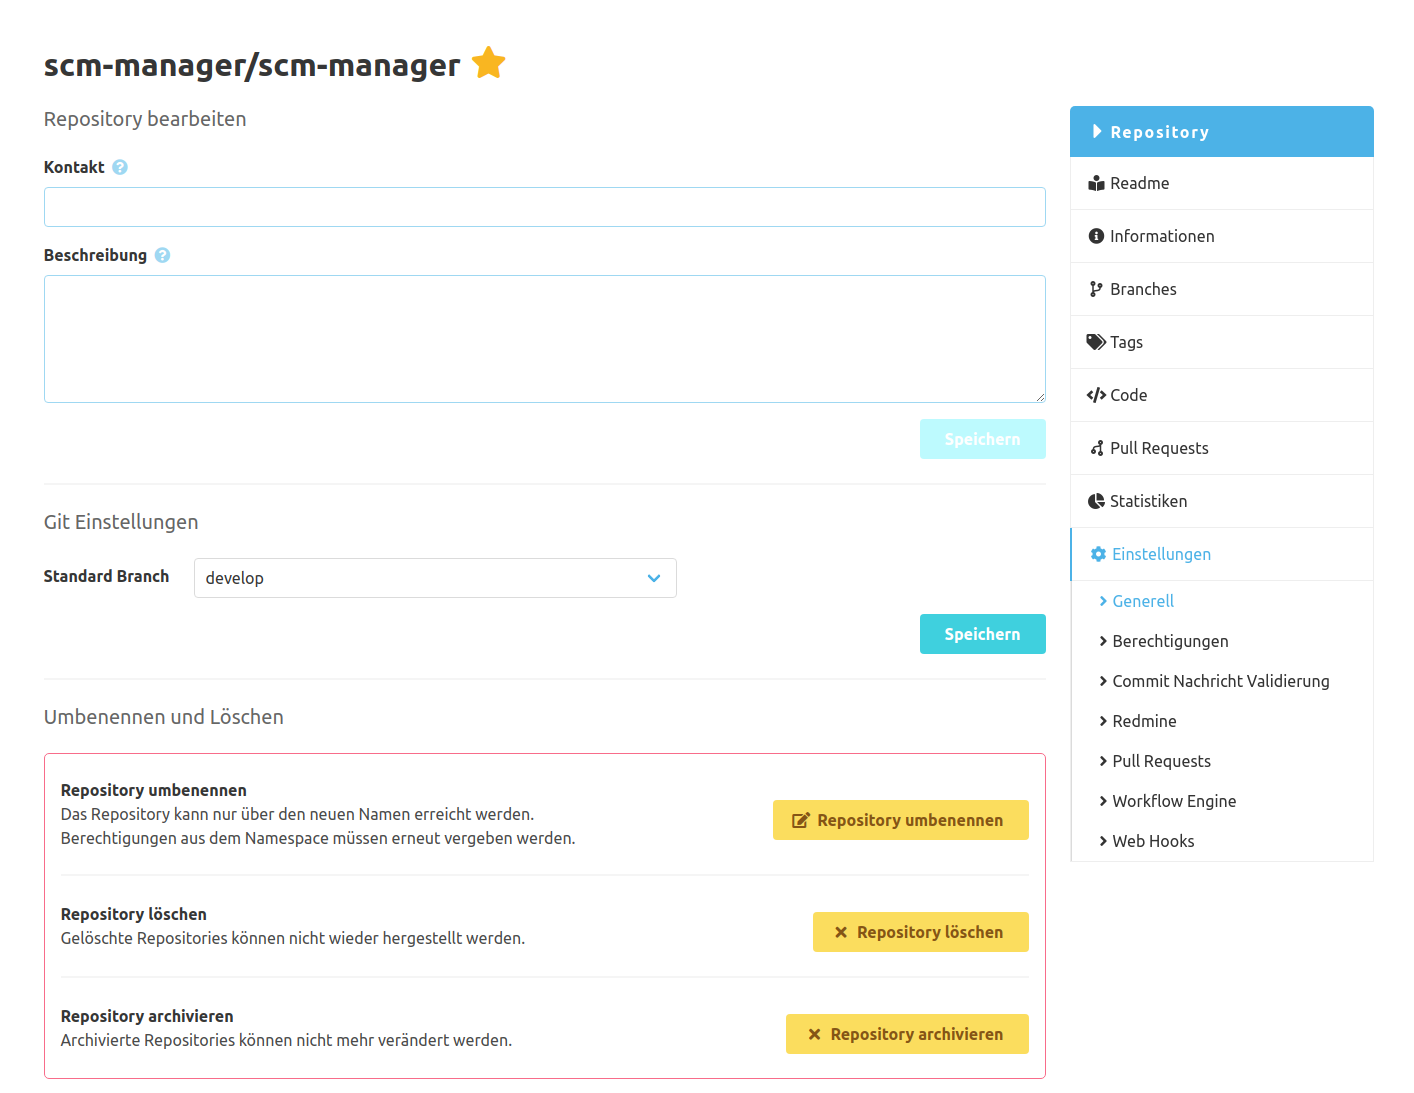
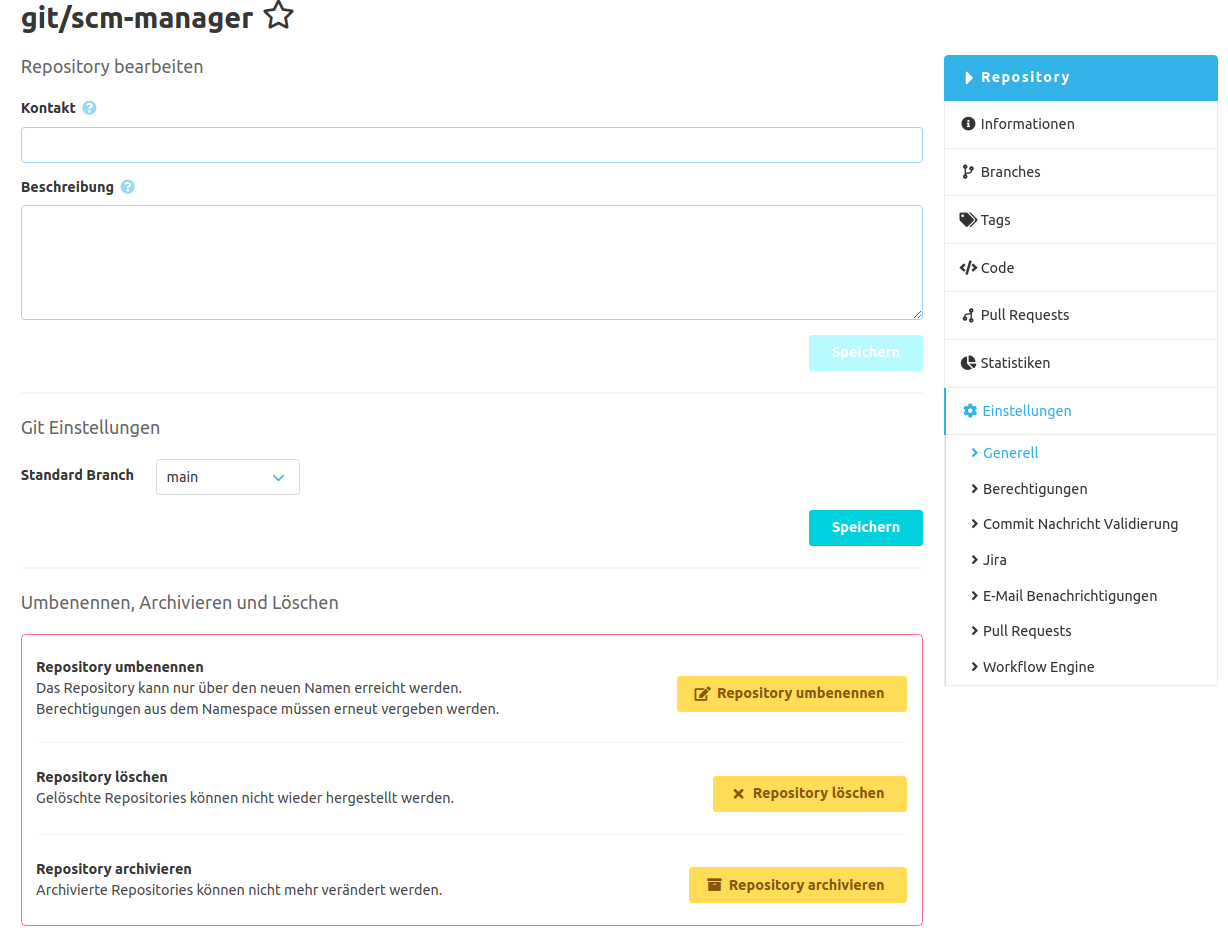
improve UI/UX

diff --git a/scm-ui/ui-webapp/src/repos/containers/RepositoryRoot.tsx b/scm-ui/ui-webapp/src/repos/containers/RepositoryRoot.tsx
@@ -29,7 +29,9 @@ import { binder, ExtensionPoint } from "@scm-manager/ui-extensions";
 import { Changeset, Repository } from "@scm-manager/ui-types";
 import {
   CustomQueryFlexWrappedColumns,
-  ErrorPage, Icon,
+  ErrorPage,
+  FileControlFactory,
+  JumpToFileButton,
   Loading,
   NavLink,
   Page,
@@ -37,7 +39,9 @@ import {
   SecondaryNavigation,
   SecondaryNavigationColumn,
   StateMenuContextProvider,
-  SubNavigation
+  SubNavigation,
+  Tooltip,
+  urls,
 } from "@scm-manager/ui-components";
 import { fetchRepoByName, getFetchRepoFailure, getRepository, isFetchRepoPending } from "../modules/repos";
 import RepositoryDetails from "../components/RepositoryDetails";
@@ -53,10 +57,8 @@ import { getLinks, getRepositoriesLink } from "../../modules/indexResource";
 import CodeOverview from "../codeSection/containers/CodeOverview";
 import ChangesetView from "./ChangesetView";
 import SourceExtensions from "../sources/containers/SourceExtensions";
-import { FileControlFactory, JumpToFileButton } from "@scm-manager/ui-components";
 import TagsOverview from "../tags/container/TagsOverview";
 import TagRoot from "../tags/container/TagRoot";
-import { urls } from "@scm-manager/ui-components";
 import styled from "styled-components";
 
 type Props = RouteComponentProps &
@@ -73,13 +75,13 @@ type Props = RouteComponentProps &
     fetchRepoByName: (link: string, namespace: string, name: string) => void;
   };
 
-const Smaller = styled.span`
-  font-size: 1rem;
-  color: gray;
-`;
-
-const Archived = styled.span`
-  color: gray;
+const ArchiveTag = styled.span`
+  margin-left: 0.2rem;
+  background-color: #9a9a9a;
+  padding: 0.4rem;
+  border-radius: 5px;
+  color: white;
+  font-weight: bold;
 `;
 
 class RepositoryRoot extends React.Component<Props> {
@@ -151,7 +153,7 @@ class RepositoryRoot extends React.Component<Props> {
     const extensionProps = {
       repository,
       url,
-      indexLinks
+      indexLinks,
     };
 
     const redirectUrlFactory = binder.getExtension("repository.redirect", this.props);
@@ -162,16 +164,17 @@ class RepositoryRoot extends React.Component<Props> {
       redirectedUrl = url + "/info";
     }
 
-    const fileControlFactoryFactory: (changeset: Changeset) => FileControlFactory = changeset => file => {
+    const fileControlFactoryFactory: (changeset: Changeset) => FileControlFactory = (changeset) => (file) => {
       const baseUrl = `${url}/code/sources`;
       const sourceLink = file.newPath && {
         url: `${baseUrl}/${changeset.id}/${file.newPath}/`,
-        label: t("diff.jumpToSource")
+        label: t("diff.jumpToSource"),
       };
-      const targetLink = file.oldPath && changeset._embedded?.parents?.length === 1 && {
-        url: `${baseUrl}/${changeset._embedded.parents[0].id}/${file.oldPath}`,
-        label: t("diff.jumpToTarget")
-      };
+      const targetLink = file.oldPath &&
+        changeset._embedded?.parents?.length === 1 && {
+          url: `${baseUrl}/${changeset._embedded.parents[0].id}/${file.oldPath}`,
+          label: t("diff.jumpToTarget"),
+        };
 
       const links = [];
       switch (file.type) {
@@ -197,33 +200,31 @@ class RepositoryRoot extends React.Component<Props> {
     };
 
     const archivedFlag = repository.archived && (
-      <>
-        {" "}
-        <Icon name={"archive fa-2x"} /> <Smaller>{t("repository.archived")}</Smaller>
-      </>
+      <Tooltip message={t("archive.tooltip")}>
+        <ArchiveTag className="is-size-6">{t("repository.archived")}</ArchiveTag>
+      </Tooltip>
     );
 
-    const namespaceLinkContent = repository.archived ?
-      <Archived>{repository.namespace}</Archived> : repository.namespace;
-
-    let titleComponent = (
+    const titleComponent = (
       <>
         <Link to={`/repos/${repository.namespace}/`} className={"has-text-dark"}>
-          {namespaceLinkContent}
+          {repository.namespace}
         </Link>
         /{repository.name}
       </>
     );
-    if (repository.archived) {
-      titleComponent = <Archived>{titleComponent}</Archived>;
-    }
 
     return (
       <StateMenuContextProvider>
         <Page
           title={titleComponent}
           documentTitle={`${repository.namespace}/${repository.name}`}
-          afterTitle={<><ExtensionPoint name={"repository.afterTitle"} props={{ repository }} />{archivedFlag}</>}
+          afterTitle={
+            <>
+              <ExtensionPoint name={"repository.afterTitle"} props={{ repository }} />
+              {archivedFlag}
+            </>
+          }
         >
           <CustomQueryFlexWrappedColumns>
             <PrimaryContentColumn>
@@ -359,7 +360,7 @@ const mapStateToProps = (state: any, ownProps: Props) => {
     loading,
     error,
     repoLink,
-    indexLinks
+    indexLinks,
   };
 };
 
@@ -367,7 +368,7 @@ const mapDispatchToProps = (dispatch: any) => {
   return {
     fetchRepoByName: (link: string, namespace: string, name: string) => {
       dispatch(fetchRepoByName(link, namespace, name));
-    }
+    },
   };
 };
 

diff --git a/scm-ui/ui-webapp/src/repos/containers/UnarchiveRepo.tsx b/scm-ui/ui-webapp/src/repos/containers/UnarchiveRepo.tsx
@@ -23,11 +23,10 @@
  */
 import React, { FC, useState } from "react";
 import { connect } from "react-redux";
-import { useHistory } from "react-router-dom";
 import { useTranslation } from "react-i18next";
 import { Repository } from "@scm-manager/ui-types";
-import { ConfirmAlert, DeleteButton, ErrorNotification, Level } from "@scm-manager/ui-components";
-import { unarchiveRepo, getModifyRepoFailure, isModifyRepoPending } from "../modules/repos";
+import { Button, ConfirmAlert, ErrorNotification, Level } from "@scm-manager/ui-components";
+import { getModifyRepoFailure, isModifyRepoPending, unarchiveRepo } from "../modules/repos";
 
 type Props = {
   loading: boolean;
@@ -40,10 +39,9 @@ type Props = {
 const UnarchiveRepo: FC<Props> = ({ confirmDialog = true, repository, unarchiveRepo, loading, error }: Props) => {
   const [showConfirmAlert, setShowConfirmAlert] = useState(false);
   const [t] = useTranslation("repos");
-  const history = useHistory();
 
   const unarchived = () => {
-    history.push(`/repo/${repository.namespace}/${repository.name}`);
+    window.location.reload();
   };
 
   const unarchiveRepoCallback = () => {
@@ -96,7 +94,9 @@ const UnarchiveRepo: FC<Props> = ({ confirmDialog = true, repository, unarchiveR
             {t("unarchiveRepo.description")}
           </p>
         }
-        right={<DeleteButton label={t("unarchiveRepo.button")} action={action} loading={loading} />}
+        right={
+          <Button color="warning" icon="box-open" label={t("unarchiveRepo.button")} action={action} loading={loading} />
+        }
       />
     </>
   );

diff --git a/scm-ui/ui-components/src/repos/RepositoryEntry.tsx b/scm-ui/ui-components/src/repos/RepositoryEntry.tsx
@@ -23,7 +23,7 @@
  */
 import React from "react";
 import { Repository } from "@scm-manager/ui-types";
-import { CardColumn, DateFromNow, Icon } from "@scm-manager/ui-components";
+import { CardColumn, DateFromNow } from "@scm-manager/ui-components";
 import RepositoryEntryLink from "./RepositoryEntryLink";
 import RepositoryAvatar from "./RepositoryAvatar";
 import { ExtensionPoint } from "@scm-manager/ui-extensions";
@@ -39,9 +39,16 @@ type Props = WithTranslation & {
   baseDate?: DateProp;
 };
 
-const Smaller = styled.span`
+const ArchiveTag = styled.span`
+  margin-left: 0.2rem;
+  background-color: #9a9a9a;
+  padding: 0.25rem;
+  border-radius: 5px;
+  color: white;
+  overflow: visible;
+  pointer-events: all;
+  font-weight: bold;
   font-size: 0.7rem;
-  color: gray;
 `;
 
 class RepositoryEntry extends React.Component<Props> {
@@ -139,14 +146,12 @@ class RepositoryEntry extends React.Component<Props> {
   createTitle = () => {
     const { repository, t } = this.props;
     const archivedFlag = repository.archived && (
-      <>
-        {" "}
-        <Icon name={"archive"} /> <Smaller>{t("repository.archived")}</Smaller>
-      </>
+      <ArchiveTag title={t("archive.tooltip")}>{t("repository.archived")}</ArchiveTag>
     );
     return (
       <>
-        <ExtensionPoint name="repository.card.beforeTitle" props={{ repository }} /> <strong>{repository.name}</strong> {archivedFlag}
+        <ExtensionPoint name="repository.card.beforeTitle" props={{ repository }} />
+        <strong>{repository.name}</strong> {archivedFlag}
       </>
     );
   };

diff --git a/scm-ui/ui-webapp/src/repos/containers/ArchiveRepo.tsx b/scm-ui/ui-webapp/src/repos/containers/ArchiveRepo.tsx
@@ -23,10 +23,9 @@
  */
 import React, { FC, useState } from "react";
 import { connect } from "react-redux";
-import { useHistory } from "react-router-dom";
 import { useTranslation } from "react-i18next";
 import { Repository } from "@scm-manager/ui-types";
-import { ConfirmAlert, DeleteButton, ErrorNotification, Level } from "@scm-manager/ui-components";
+import { Button, ConfirmAlert, ErrorNotification, Level } from "@scm-manager/ui-components";
 import { archiveRepo, getModifyRepoFailure, isModifyRepoPending } from "../modules/repos";
 
 type Props = {
@@ -40,10 +39,9 @@ type Props = {
 const ArchiveRepo: FC<Props> = ({ confirmDialog = true, repository, archiveRepo, loading, error }: Props) => {
   const [showConfirmAlert, setShowConfirmAlert] = useState(false);
   const [t] = useTranslation("repos");
-  const history = useHistory();
 
   const archived = () => {
-    history.push(`/repo/${repository.namespace}/${repository.name}`);
+    window.location.reload();
   };
 
   const archiveRepoCallback = () => {
@@ -96,7 +94,9 @@ const ArchiveRepo: FC<Props> = ({ confirmDialog = true, repository, archiveRepo,
             {t("archiveRepo.description")}
           </p>
         }
-        right={<DeleteButton label={t("archiveRepo.button")} action={action} loading={loading} />}
+        right={
+          <Button color="warning" icon="archive" label={t("archiveRepo.button")} action={action} loading={loading} />
+        }
       />
     </>
   );
